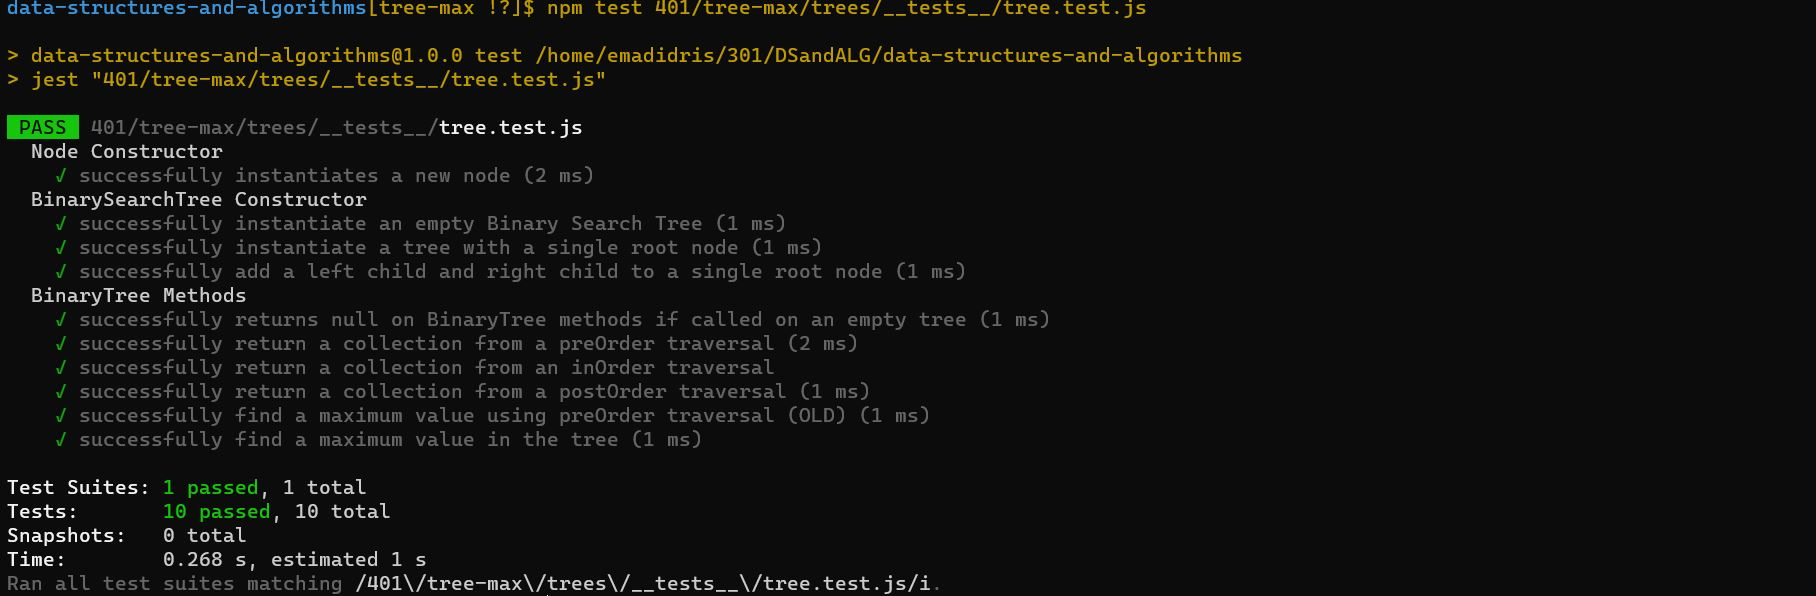
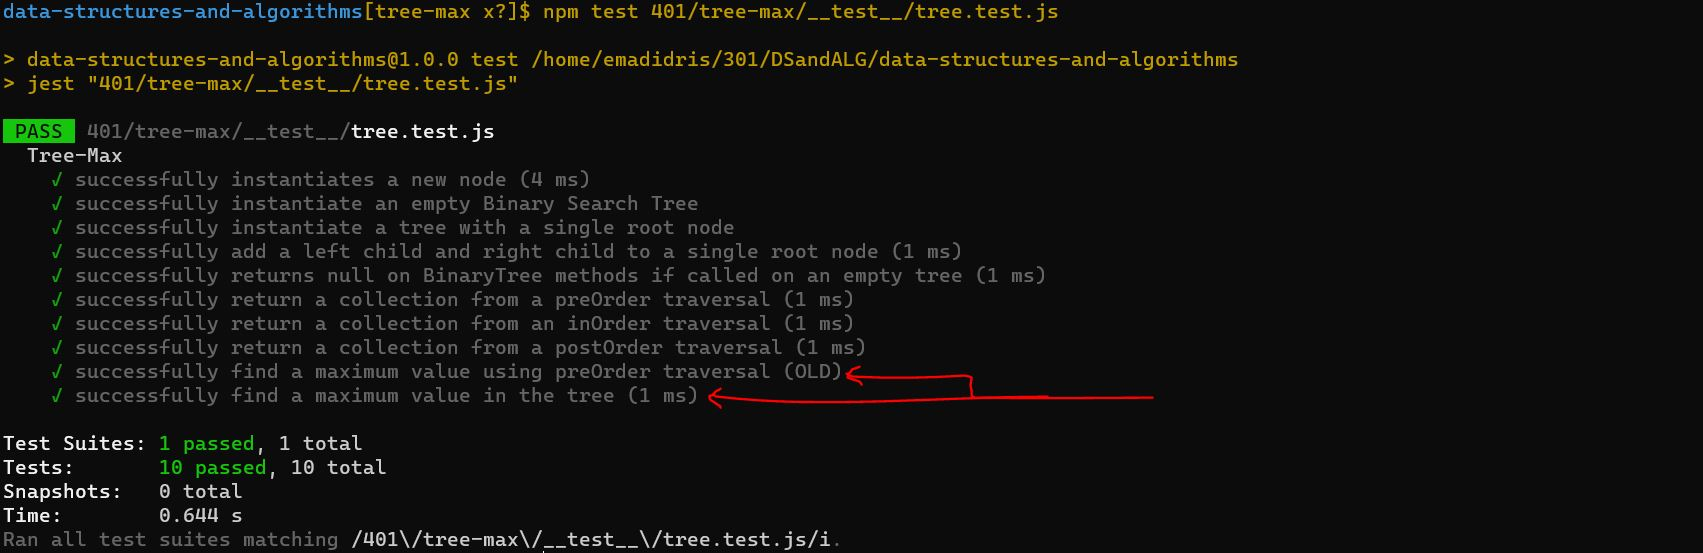
finish

Changed region(s): [[0.0, 0.0, 0.7469, 1.0]]

diff --git a/401/tree-max/__test__/tree.test.js b/401/tree-max/__test__/tree.test.js
@@ -11,17 +11,16 @@ const { Node, BinarySearchTree } = require('../tree');
 //     Can successfully return a collection from a preorder traversal
 //     Can successfully return a collection from an inorder traversal
 //     Can successfully return a collection from a postorder traversal
+//     Can successfully find a maximum value using preOrder traversal (OLD)
+//     Can successfully find a maximum value in the tree
 
-describe('Node Constructor', () => {
+describe('Tree-Max', () => {
   it('successfully instantiates a new node', () => {
     let node = new Node(5);
     expect(node.leftChild).toBeNull();
     expect(node.rightChild).toBeNull();
     expect(node.value).toBe(5);
   });
-});
-
-describe('BinarySearchTree Constructor', () => {
   it('successfully instantiate an empty Binary Search Tree', () => {
     let tree = new BinarySearchTree();
     expect(tree.root).toBeNull();
@@ -40,9 +39,6 @@ describe('BinarySearchTree Constructor', () => {
     expect(tree.root.leftChild.value).toBe(3);
     expect(tree.root.rightChild.value).toBe(7);
   });
-});
-
-describe('BinaryTree Methods', () => {
   it('successfully returns null on BinaryTree methods if called on an empty tree', () => {
     let tree = new BinarySearchTree();
     let preOrder = tree.preOrder();
@@ -55,6 +51,7 @@ describe('BinaryTree Methods', () => {
     expect(postOrder).toBeNull();
     expect(findMax).toBeNull();
   });
+
   it('successfully return a collection from a preOrder traversal', () => {
     let tree = new BinarySearchTree();
     tree.add(4);
@@ -66,6 +63,7 @@ describe('BinaryTree Methods', () => {
     let preOrder = tree.preOrder();
     expect(preOrder).toEqual([4, 2, 1, 3, 6, 5]);
   });
+
   it('successfully return a collection from an inOrder traversal', () => {
     let tree = new BinarySearchTree();
     tree.add(4);
@@ -77,6 +75,7 @@ describe('BinaryTree Methods', () => {
     let inOrder = tree.inOrder();
     expect(inOrder).toEqual([1, 2, 3, 4, 5, 6]);
   });
+
   it('successfully return a collection from a postOrder traversal', () => {
     let tree = new BinarySearchTree();
     tree.add(4);
@@ -88,6 +87,7 @@ describe('BinaryTree Methods', () => {
     let postOrder = tree.postOrder();
     expect(postOrder).toEqual([1, 3, 2, 5, 6, 4]);
   });
+
   it('successfully find a maximum value using preOrder traversal (OLD)', () => {
     let tree = new BinarySearchTree();
     tree.add(4);
@@ -100,6 +100,7 @@ describe('BinaryTree Methods', () => {
     let findMax = tree.oldFindMaximumValue(preOrderArray);
     expect(findMax).toEqual(6);
   });
+
   it('successfully find a maximum value in the tree', () => {
     let tree = new BinarySearchTree();
     tree.add(4);
@@ -111,4 +112,5 @@ describe('BinaryTree Methods', () => {
     let findMax = tree.findMaximumValue();
     expect(findMax).toEqual(6);
   });
-});
+
+})
